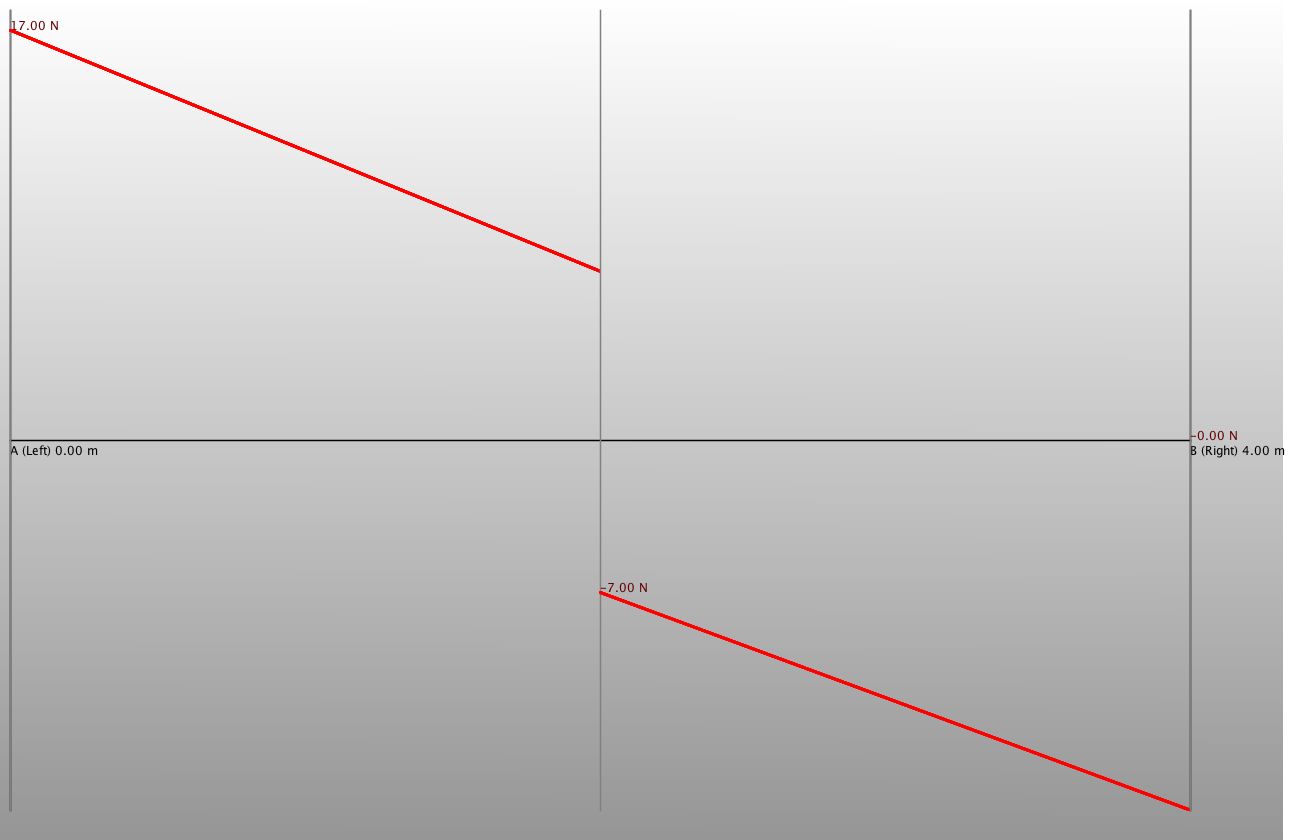
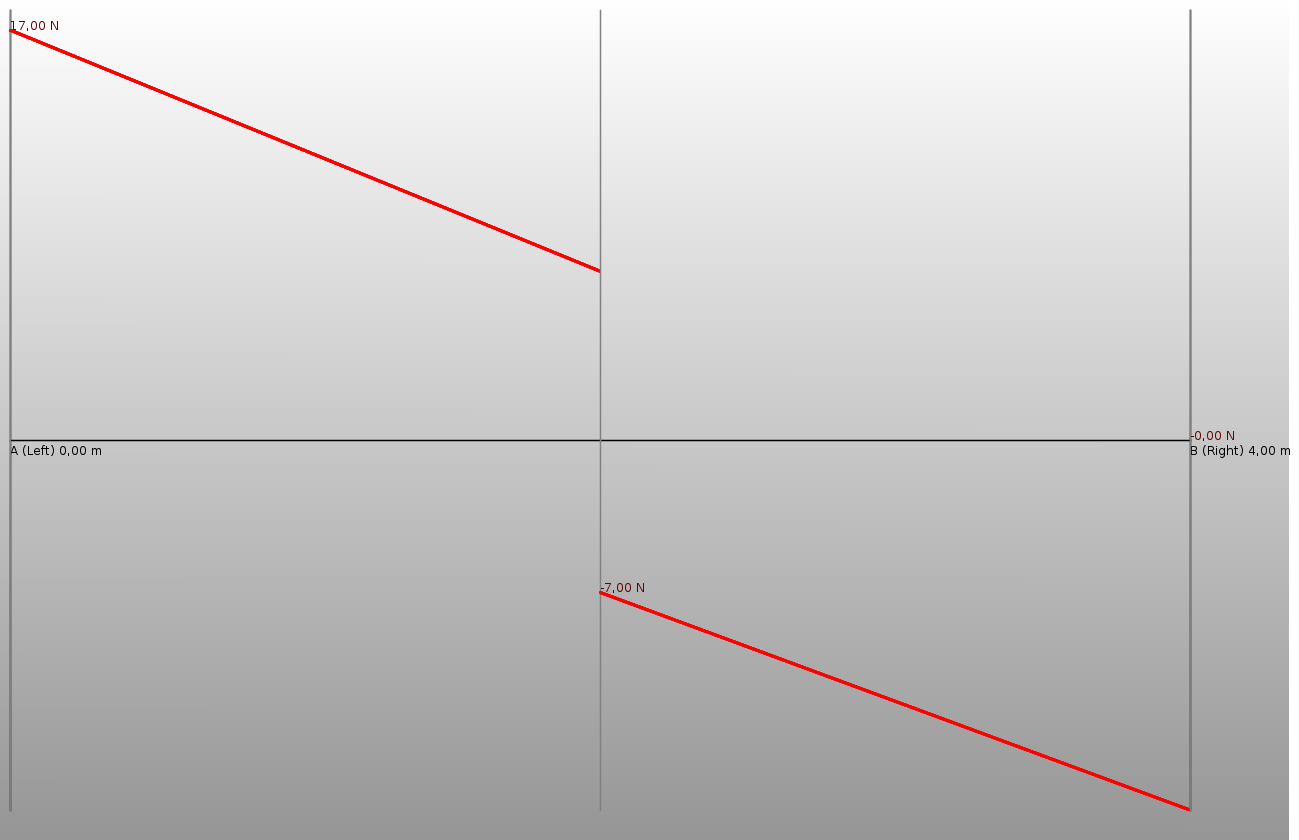
Done some refractoring.

diff --git a/src/org/berthold/beamCalc/StressResultantTable.java b/src/org/berthold/beamCalc/StressResultantTable.java
@@ -19,11 +19,7 @@ public class StressResultantTable {
 
 	private static final double DISCONTIUNUITY_THRESHOLD = .01;
 
-	public List<StressResultant> sfValues = new ArrayList<StressResultant>(); // Create
-																				// getter/
-																				// setter
-																				// :-(
-
+	public List<StressResultant> sfValues = new ArrayList<StressResultant>(); 
 	private double sectionLength_m;
 	private Beam beam;
 	private String unit;
@@ -31,13 +27,11 @@ public class StressResultantTable {
 	/**
 	 * A new Stress resultant table.
 	 * 
-	 * Creates a new table for the passed {@link Beam}-object, adds the
-	 * supporting forces and all forces acting.
+	 * Creates a new table for the passed {@link Beam}-object, adds the supporting
+	 * forces and all forces acting.
 	 * 
-	 * @param beam
-	 *            A {@link Beam}- object from which the table is build.
-	 * @param sectionLength_m
-	 *            Sections between the forces acting.
+	 * @param beam            A {@link Beam}- object from which the table is build.
+	 * @param sectionLength_m Sections between the forces acting.
 	 */
 	public StressResultantTable(Beam beam, double sectionLength_m, String unit) {
 		this.beam = beam;
@@ -63,8 +57,8 @@ public class StressResultantTable {
 	/**
 	 * Section length.
 	 * 
-	 * @return The length between each section the beam is divided into (the
-	 *         space between the resultant forces).
+	 * @return The length between each section the beam is divided into (the space
+	 *         between the resultant forces).
 	 */
 	public double getSectionLength_m() {
 		return sectionLength_m;
@@ -73,10 +67,10 @@ public class StressResultantTable {
 	/**
 	 * Stress resultant at a specified index in the table.
 	 * 
-	 * This method is used by the {@link QSolver}- and {@link MSolver} the
-	 * class. When adding a shearing force use the {@link addForce()} method
-	 * which calculates the index in the table depending from the section length
-	 * and the position of the force relative the the left end of the beam.
+	 * This method is used by the {@link QSolver}- and {@link MSolver} the class.
+	 * When adding a shearing force use the {@link addForce()} method which
+	 * calculates the index in the table depending from the section length and the
+	 * position of the force relative the the left end of the beam.
 	 * 
 	 * @param index
 	 * @return Shearing force.
@@ -86,24 +80,21 @@ public class StressResultantTable {
 	}
 
 	/**
-	 * Resultant force at a specified index in the table.
+	 * Stress resultant force at a specified index in the table.
 	 * 
-	 * This method is used by the {@link QSolver}- and the {@link MSolver}
-	 * class.
+	 * This method is used by the {@link QSolver}- and the {@link MSolver} class.
 	 * 
 	 * @param index
-	 * @param shearingForceValue
-	 *            The shearing force.
+	 * @param stressResultantValue The shearing force.
 	 */
-	public void setAtIndex(int index, StressResultant shearingForceValue) {
-		sfValues.set(index, shearingForceValue);
+	public void setAtIndex(int index, StressResultant stressResultantValue) {
+		sfValues.set(index, stressResultantValue);
 	}
 
 	/**
 	 * Adds a point load to this table.
 	 * 
-	 * @param l
-	 *            The {@link Load}- object representing the load.
+	 * @param l The {@link Load}- object representing the load.
 	 */
 	public void addForce(Load l) {
 
@@ -128,8 +119,7 @@ public class StressResultantTable {
 	/**
 	 * Superimposes a uniformly distributed load.
 	 * 
-	 * @param dl_Nm
-	 *            Load.
+	 * @param dl_Nm Load.
 	 */
 	public void addDistributedLoad(Load dl_Nm) {
 
@@ -158,7 +148,7 @@ public class StressResultantTable {
 	}
 
 	/**
-	 * List of shearing forces.
+	 * List of stress resultant objects.
 	 * 
 	 * @return This list of {@link StressResultant}- objects.
 	 */
@@ -169,8 +159,7 @@ public class StressResultantTable {
 	/**
 	 * A list of all maxima of this stress resultant table.
 	 * 
-	 * @return List of {@link StressResultant}- objects containing all maxima
-	 *         found.
+	 * @return List of {@link StressResultant}- objects containing all maxima found.
 	 */
 	public List<StressResultant> getMaxima() {
 		List<StressResultant> maxima = new ArrayList<>();
@@ -183,19 +172,35 @@ public class StressResultantTable {
 	}
 
 	/**
-	 * A list of all points of disconuity of this stress resultant table.
+	 * A list of all points of discontinuity of this stress resultant table.
 	 * 
 	 * @return List of {@link StressResultant}- objects containing all points of
-	 *         disconuity found.
+	 *         discontinuity found.
 	 */
-	public List<StressResultant> getDisconuitys() {
-		List<StressResultant> disconuity = new ArrayList<>();
+	public List<StressResultant> getDiscontinuitys() {
+		List<StressResultant> discontinuity = new ArrayList<>();
 
 		for (StressResultant r : this.sfValues)
 			if (r.isDiscontiunuity())
-				disconuity.add(r);
+				discontinuity.add(r);
 
-		return disconuity;
+		return discontinuity;
+	}
+
+	/**
+	 * A list of zero points of this table
+	 * 
+	 * @return List of {@link StressResultant}- objects containing all zero points
+	 *         found.
+	 */
+	public List<StressResultant> getZeroPoints() {
+		List<StressResultant> zeroPoints = new ArrayList<>();
+
+		for (StressResultant r : this.sfValues)
+			if (r.isZeroPoint())
+				zeroPoints.add(r);
+
+		return zeroPoints;
 	}
 
 	/**
@@ -234,8 +239,8 @@ public class StressResultantTable {
 	}
 
 	/**
-	 * Determines the biggest x- value, which is in fact the length of the
-	 * asociated beam.
+	 * Determines the biggest x- value, which is in fact the length of the asociated
+	 * beam.
 	 * 
 	 * @return Beggest x- value.
 	 */

diff --git a/src/org/berthold/beamCalc/StressResultantDraw.java b/src/org/berthold/beamCalc/StressResultantDraw.java
@@ -43,23 +43,16 @@ public class StressResultantDraw {
 	/**
 	 * Creates a new image.
 	 * 
-	 * @param name
-	 *            File name.
-	 * @param beam
-	 *            The asociated {@link Beam}- object.
-	 * @param stressResultants
-	 *            The stress resultants to be drawn (
-	 *            {@link StressResultantTable}).
-	 * @param height_px
-	 *            Height of the image in pixels.
-	 * @param width_px
-	 *            The width of the image in pixels.
-	 * @param padX_px
-	 *            Padding in pixels at the left and right side of the image.
-	 * @param padY_px
-	 *            Padding in pixels at the top and bottom of the image.
-	 * @param numberFormat
-	 *            Number format... (e.g. %.2f = two decimal places).
+	 * @param name             File name.
+	 * @param beam             The asociated {@link Beam}- object.
+	 * @param stressResultants The stress resultants to be drawn (
+	 *                         {@link StressResultantTable}).
+	 * @param height_px        Height of the image in pixels.
+	 * @param width_px         The width of the image in pixels.
+	 * @param padX_px          Padding in pixels at the left and right side of the
+	 *                         image.
+	 * @param padY_px          Padding in pixels at the top and bottom of the image.
+	 * @param numberFormat     Number format... (e.g. %.2f = two decimal places).
 	 */
 	public StressResultantDraw(String name, Beam beam, StressResultantTable stressResultants, int height_px,
 			int width_px, int padX_px, int padY_px, String numberFormat) {
@@ -102,10 +95,10 @@ public class StressResultantDraw {
 			BufferedImage himg = new BufferedImage(width_px, height_px, BufferedImage.TYPE_INT_ARGB);
 			Graphics2D hg = himg.createGraphics();
 
-			paddingRight_px = getWidthOfStringIn_px(rightSupportName + " " +rightSupportX+"m", hg);
+			paddingRight_px = getWidthOfStringIn_px(rightSupportName + " " + rightSupportX + "m", hg);
 
 			// This is the image used by the renderer
-			BufferedImage img = new BufferedImage(width_px + paddingRight_px+padX_px,
+			BufferedImage img = new BufferedImage(width_px + paddingRight_px + padX_px,
 					height_px + PADDING_TOP_PX + PADDING_BOTTOM_PX, BufferedImage.TYPE_INT_ARGB);
 
 			// Grab the graphics object off the image
@@ -154,7 +147,7 @@ public class StressResultantDraw {
 				graphics.drawLine((int) getXT(x), (int) getYT(y), (int) getXT(x), (int) getYT(y));
 
 				String shFormated;
-				if (r.isDiscontiunuity() ) {
+				if (r.isDiscontiunuity()) {
 					graphics.setColor(Color.GRAY);
 					graphics.drawLine((int) getXT(x), padY_px, (int) getXT(x), height_px - padY_px + PADDING_TOP_PX);
 
@@ -187,8 +180,7 @@ public class StressResultantDraw {
 	/**
 	 * Transforms a y- koordinate.
 	 * 
-	 * @param y
-	 *            y- koordinate
+	 * @param y y- koordinate
 	 * @return Transformed y- koordinate.
 	 */
 	private double getYT(double y) {
@@ -214,9 +206,9 @@ public class StressResultantDraw {
 	/**
 	 * Display width of a string in pixels.
 	 * 
-	 * @param string
-	 * @param g
-	 *            Associated {@ling Graphics} object.
+	 * @param string The string containing the text of which the width in pixels to
+	 *               be determined.
+	 * @param g      Associated {@link Graphics2D} object.
 	 * @return Width of string in pixels.
 	 */
 	private int getWidthOfStringIn_px(String string, Graphics g) {
@@ -224,16 +216,12 @@ public class StressResultantDraw {
 		return f.stringWidth(string);
 	}
 
-	//
-	// GFX settings
-	//
 	/**
 	 * Adds rendering hints for the graphics display.
 	 * 
-	 * @param graphics
-	 *            The {@Graphics2D}- object to which the rendering settings are
-	 *            to be added.
-	 * @return The {@Graphics2D}- object containing the new rendering settings.
+	 * @param graphics The {@link Graphics2D}- object to which the rendering
+	 *                 settings are to be added.
+	 * @return The {@link Graphics2D}- object containing the new rendering settings.
 	 */
 	private Graphics2D assignRenderingHints(Graphics2D graphics) {
 		RenderingHints rh = new RenderingHints(RenderingHints.KEY_ANTIALIASING, RenderingHints.VALUE_ANTIALIAS_ON);

diff --git a/src/org/berthold/beamCalc/BeamResult.java b/src/org/berthold/beamCalc/BeamResult.java
@@ -1,7 +1,7 @@
 package org.berthold.beamCalc;
 
 /**
- * Contains the resulting forces at the bearings of an simply supported {@link Beam}.
+ * Contains result a simply supported {@link Beam}.
  * 
  * If errors (e.g. load outside of beam length) occur, an {@link Error} object is
  * added which contains a description of the problem.
@@ -19,8 +19,12 @@ public class BeamResult {
 	private double resultingForceAtLeftBearing_N, resultingForceAtRightBearing_N, sumOfHorizontalForcesIn_N;
 	private String solutionTermForRightBearing,solutionTermForLeftBearing,solutionTermForHorizontalForces;
 	
+	/**
+	 * Creates a new result.
+	 * 
+	 */
 	public BeamResult() {
-		error = new ArrayList<BeamCalcError>();
+		this.error = new ArrayList<>();
 	}
 
 	public void addError(BeamCalcError error) {
@@ -59,6 +63,7 @@ public class BeamResult {
 		this.sumOfHorizontalForcesIn_N = sumOfHorizontalForces;
 	}
 	
+
 	/**
 	 * Adds the solution term for the sum of the horizonztal force.
 	 * 

diff --git a/src/MainBeamCalculator.java b/src/MainBeamCalculator.java
@@ -91,7 +91,7 @@ public class MainBeamCalculator {
 					System.out.println("x=" + r.getX_m() + " m   M=" + r.getShearingForce()+" "+r.getUnit());
 			
 			List <StressResultant> dis=new ArrayList<>();
-			dis=qTable.getDisconuitys();
+			dis=qTable.getDiscontinuitys();
 			System.out.println("Points of disconuity in Q");
 			for (StressResultant r:dis) 
 					System.out.println("x=" + r.getX_m() + " m   M=" + r.getShearingForce()+" "+r.getUnit());
@@ -112,7 +112,7 @@ public class MainBeamCalculator {
 			for (StressResultant r:maxima) 
 					System.out.println("x=" + r.getX_m() + " m   M=" + r.getShearingForce()+" "+r.getUnit());
 
-			dis=mTable.getDisconuitys();
+			dis=mTable.getDiscontinuitys();
 			System.out.println("Points of disconuity in M");
 			for (StressResultant r:dis) 
 					System.out.println("x=" + r.getX_m() + " m   M=" + r.getShearingForce()+" "+r.getUnit());

diff --git a/src/org/berthold/beamCalc/BeamSolver.java b/src/org/berthold/beamCalc/BeamSolver.java
@@ -80,7 +80,7 @@ public class BeamSolver {
 			result.addError(error);
 		}
 
-		// Prepeare string which will contain the term for the solution in
+		// Prepare string which will contain the term for the solution in
 		// detail.
 		String partOfMathTerm; // String holding current mathematical term.
 
